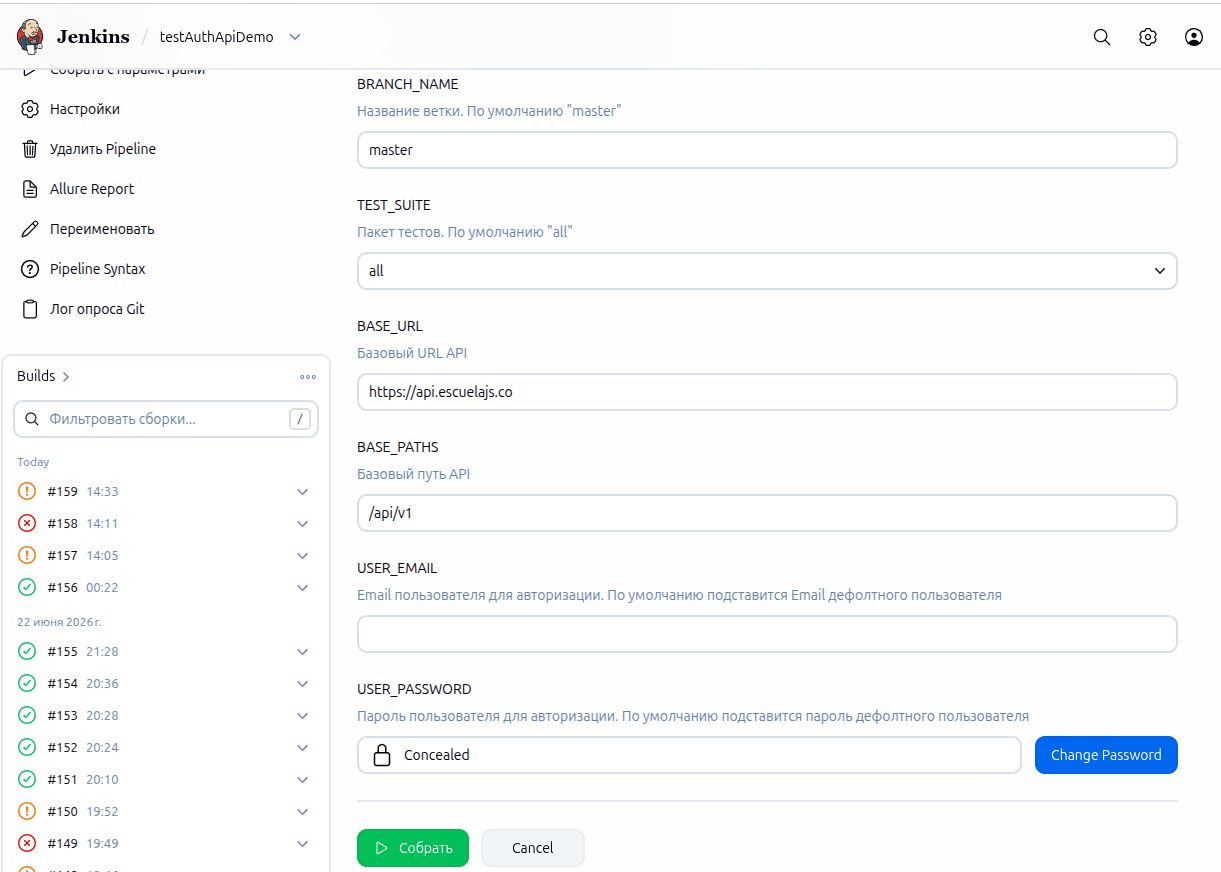
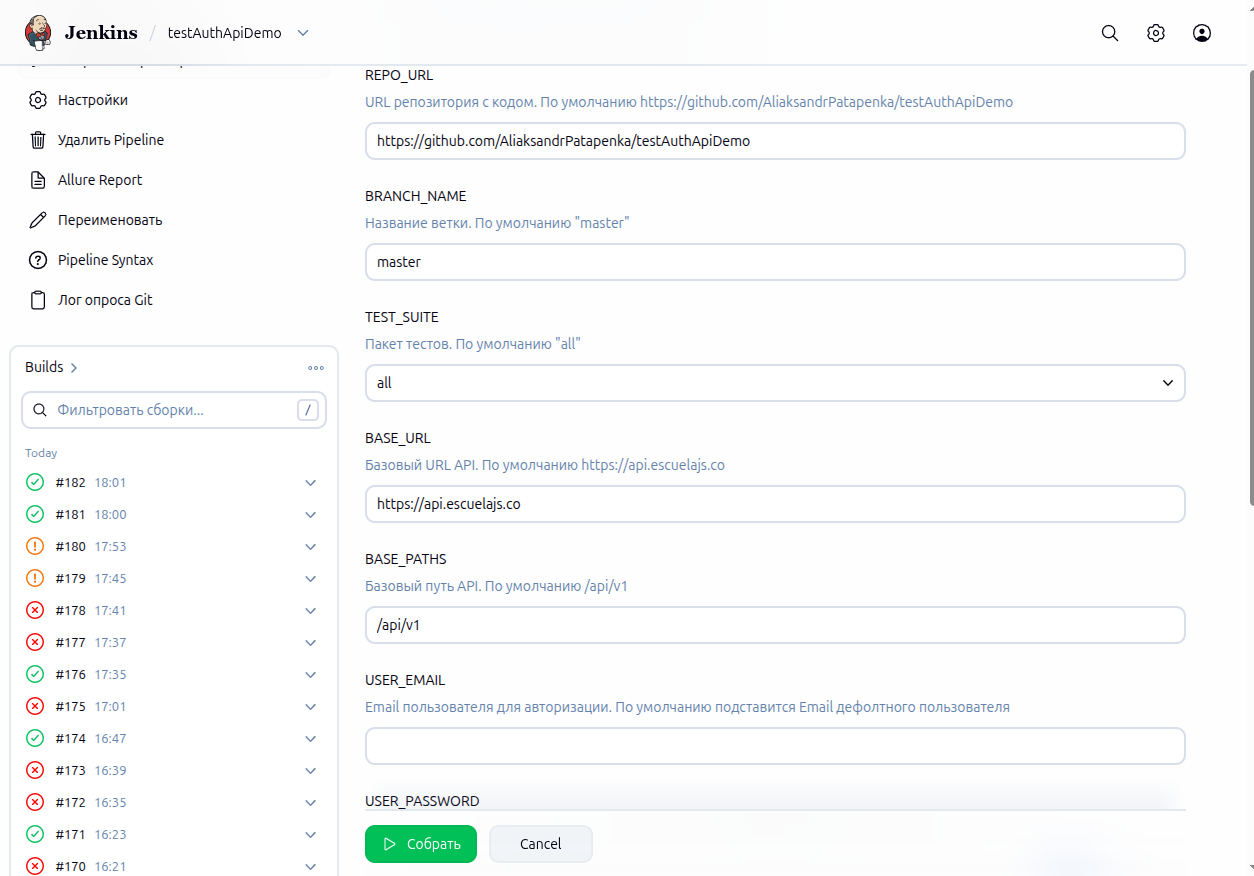
Редактирование

diff --git a/src/test/java/com/apiAuto/test/auth/PostLoginTest.java b/src/test/java/com/apiAuto/test/auth/PostLoginTest.java
@@ -26,7 +26,7 @@ public class PostLoginTest {
     public class PositiveTests {
         @Test
         @Order(1)
-        @DisplayName("Case6.1: Авторизация пользователя")
+        @DisplayName("Case 6.1: Авторизация пользователя")
         void userLogin() {
             UserLogin user = new UserLogin();
             user.setEmail(UserData.USER_EMAIL);
@@ -52,7 +52,7 @@ public class PostLoginTest {
     public class NegativeTests {
         @Test
         @Order(1)
-        @DisplayName("Case6.1: Неверный логин пользователя")
+        @DisplayName("Case 6.1: Неверный логин пользователя")
         void incorrectEmail() {
             String userEmailLogin = UserData.NON_EXISTENT_EMAIL;
             String userPasswordLogin = UserData.USER_PASSWORD;
@@ -65,7 +65,7 @@ public class PostLoginTest {
 
         @Test
         @Order(2)
-        @DisplayName("Case2: Неверный пароль пользователя")
+        @DisplayName("Case 6.2: Неверный пароль пользователя")
         void incorrectPassword() {
             String userEmailLogin = UserData.USER_EMAIL;
             String userPasswordLogin = UserData.INVALID_PASSWORD;

diff --git a/src/test/java/com/apiAuto/test/users/PostIsAvailableTest.java b/src/test/java/com/apiAuto/test/users/PostIsAvailableTest.java
@@ -25,7 +25,7 @@ public class PostIsAvailableTest {
     @TestMethodOrder(MethodOrderer.OrderAnnotation.class)
     class PositiveTests {
         @Test
-        @DisplayName("Case5.1: Проверка  доступности email (Пользователь существует)")
+        @DisplayName("Case 5.1: Проверка  доступности email (Пользователь существует)")
         void checkEmailExist() {
             String userEmail = UserData.USER_EMAIL;
 
@@ -46,7 +46,7 @@ public class PostIsAvailableTest {
         }
 
         @Test
-        @DisplayName("Case5.2: Проверка  доступности email (Пользователь не существует)")
+        @DisplayName("Case 5.2: Проверка  доступности email (Пользователь не существует)")
         void checkEmailNoExist() {
             CheckEmail checkEmail = new CheckEmail();
             checkEmail.setEmail(UserData.NON_EXISTENT_EMAIL);
@@ -74,7 +74,7 @@ public class PostIsAvailableTest {
     @Order(2)
     class NegativeTests {
         @Test
-        @DisplayName("Case5.1: Проверка  доступности email при email = null")
+        @DisplayName("Case 5.1: Проверка  доступности email при email = null")
         void checkEmailNull() {
             CheckEmail checkEmail = new CheckEmail();
             checkEmail.setEmail(null);

diff --git a/src/test/java/com/apiAuto/test/auth/GetProfileTest.java b/src/test/java/com/apiAuto/test/auth/GetProfileTest.java
@@ -25,7 +25,7 @@ public class GetProfileTest {
     @TestMethodOrder(MethodOrderer.OrderAnnotation.class)
     public class PositiveTests {
         @Test
-        @DisplayName("Case8.1: Переход в профиль пользователя")
+        @DisplayName("Case 8.1: Переход в профиль пользователя")
         void userProfile() {
             String userEmailLogin = UserData.USER_EMAIL;
             String userPasswordLogin = UserData.USER_PASSWORD;
@@ -56,7 +56,7 @@ public class GetProfileTest {
     @TestMethodOrder(MethodOrderer.OrderAnnotation.class)
     public class NegativeTests {
         @Test
-        @DisplayName("Case8.1: Ответ 401 при переходе в профиль пользователя")
+        @DisplayName("Case 8.1: Ответ 401 при переходе в профиль пользователя")
         void incorrectProfile() {
             given(requestSpec())
                     .when()

diff --git a/src/test/java/com/apiAuto/test/auth/PostRefreshTokenTest.java b/src/test/java/com/apiAuto/test/auth/PostRefreshTokenTest.java
@@ -28,7 +28,7 @@ public class PostRefreshTokenTest {
     @TestMethodOrder(MethodOrderer.OrderAnnotation.class)
     public class PositiveTests {
         @Test
-        @DisplayName("Case7.1: Обновление токена")
+        @DisplayName("Case 7.1: Обновление токена")
         void userRefreshToken() {
             String userEmailLogin = UserData.USER_EMAIL;
             String userPasswordLogin = UserData.USER_PASSWORD;
@@ -62,7 +62,7 @@ public class PostRefreshTokenTest {
     @TestMethodOrder(MethodOrderer.OrderAnnotation.class)
     public class NegativeTests {
         @Test
-        @DisplayName("Case7.1: Ошибка обновления токена(пустое тело запроса)")
+        @DisplayName("Case 7.1: Ошибка обновления токена(пустое тело запроса)")
         void incorrectRefreshToken() {
             given(requestSpec()).body("{}")
                     .when()

diff --git a/src/test/java/com/apiAuto/test/users/GetUsersIdTest.java b/src/test/java/com/apiAuto/test/users/GetUsersIdTest.java
@@ -27,7 +27,7 @@ public class GetUsersIdTest {
     @TestMethodOrder(MethodOrderer.OrderAnnotation.class)
     class PositiveTests {
         @Test
-        @DisplayName("Case3.1: Получение данных по пользователю")
+        @DisplayName("Case 3.1: Получение данных по пользователю")
         void userSingle() {
             Response createResponse = UserCreateTemplate.userCreateTemplate();
             int userId = createResponse.jsonPath().getInt("id");
@@ -53,7 +53,7 @@ public class GetUsersIdTest {
     @Order(2)
     class NegativeTests {
         @Test
-        @DisplayName("Case3.1: Получение данных по несуществующему пользователю")
+        @DisplayName("Case 3.1: Получение данных по несуществующему пользователю")
         void UserInvalid() {
             given(requestSpec())
                     .when()

diff --git a/src/test/java/com/apiAuto/test/users/PutUsersIdTest.java b/src/test/java/com/apiAuto/test/users/PutUsersIdTest.java
@@ -31,7 +31,7 @@ public class PutUsersIdTest {
     @TestMethodOrder(MethodOrderer.OrderAnnotation.class)
     class PositiveTests {
         @Test
-        @DisplayName("Case4.1: Редактирование пользователя")
+        @DisplayName("Case 4.1: Редактирование пользователя")
         void userUpdate() {
             Response createResponse = UserCreateTemplate.userCreateTemplate();
             int userId = createResponse.jsonPath().getInt("id");
@@ -72,7 +72,7 @@ public class PutUsersIdTest {
     @Order(2)
     class NegativeTests {
         @Test
-        @DisplayName("Case4.1: Редактирование  пользователя при введенном некорректном Email")
+        @DisplayName("Case 4.1: Редактирование  пользователя при введенном некорректном Email")
         void userUpdateInvalid() {
             Response createResponse = UserCreateTemplate.userCreateTemplate();
             int userId = createResponse.jsonPath().getInt("id");

diff --git a/src/test/java/com/apiAuto/test/users/GetUsersTest.java b/src/test/java/com/apiAuto/test/users/GetUsersTest.java
@@ -25,7 +25,7 @@ public class GetUsersTest {
     @TestMethodOrder(MethodOrderer.OrderAnnotation.class)
     class PositiveTests {
         @Test
-        @DisplayName("Case2.1: Получение списка пользователей")
+        @DisplayName("Case 2.1: Получение списка пользователей")
         void userList() {
             Response createResponse = UserCreateTemplate.userCreateTemplate();
             int userId = createResponse.jsonPath().getInt("id");

diff --git a/src/test/java/com/apiAuto/test/users/PostUsersTest.java b/src/test/java/com/apiAuto/test/users/PostUsersTest.java
@@ -28,7 +28,7 @@ public class PostUsersTest {
     class PositiveTests {
 
         @Test
-        @DisplayName("Case1.1: Создание пользователя")
+        @DisplayName("Case 1.1: Создание пользователя")
         void userCreate() {
             String timeIndex = TestDataGenerator.timeIndex();
             UserCreate userCreate = new UserCreate();

diff --git a/README.md b/README.md
@@ -75,8 +75,9 @@ mvn clean test; allure generate target/allure-results --clean -o allure-report; 
 Проект интегрирован с Jenkins. Пайплайн (`Jenkinsfile`) поддерживает параметризированную сборку:
 
 **Параметры сборки:**
-- `BRANCH_NAME` — ветка репозитория (по умолчанию `master`)
-- `TEST_SUITE` — пакет тестов (`all`, `auth`, `users`)
+- `REPO_URL` — ссылка на тестируемый репозиторий репозитория
+- `BRANCH_NAME` — ветка тестируемого репозитория
+- `TEST_SUITE` — пакет тестов
 - `BASE_URL` — базовый URL API
 - `BASE_PATHS` — базовый путь API
 - `USER_EMAIL` — email для авторизации (подставляется из Jenkins Credentials)
@@ -86,25 +87,20 @@ mvn clean test; allure generate target/allure-results --clean -o allure-report; 
 
 ![Jenkins Build Page](screenshots/jenkins-build-page.png)
 
-**Особенности:**
-- Автоматическое уведомление в Telegram о старте, результате и статусе сборки
-- Использование Jenkins Credentials для безопасного хранения логина/пароля и Telegram-токена
-- Публикация Allure-отчета на Jenkins
-
 ---
 
 ## Telegram-уведомления
 
 Jenkins-пайплайн отправляет уведомления в Telegram о статусе сборки:
 
-- 🚀 **Старт сборки**
-- ✅ **Успешная сборка**
-- ⚠️ **Нестабильная сборка**
-- ❌ **Ошибка пайплайна**
+- 🚀 Тесты **ЗАПУШЕНЫ!**
+- ✅ Тесты отработали **УСПЕШНО!**
+- ⚠️ Тесты **УПАЛИ!**
+- ❌ Тесты **НЕ ЗАПУСТИЛИСЬ!**
 
 **Пример уведомлений в Telegram:**
 
-![Telegram Notification](screenshots/telegram-notification.png)
+![Telegram Notification](screenshots/t1.png)
 
 ---
 
@@ -114,7 +110,7 @@ Jenkins-пайплайн отправляет уведомления в Telegram
 
 **Пример отчета (Тест пройден успешно):**
 
-![allure1](screenshots/allure1.png)
+![allure1](screenshots/allure1.png) 
 
 **Пример отчета (Тест упал):**
 